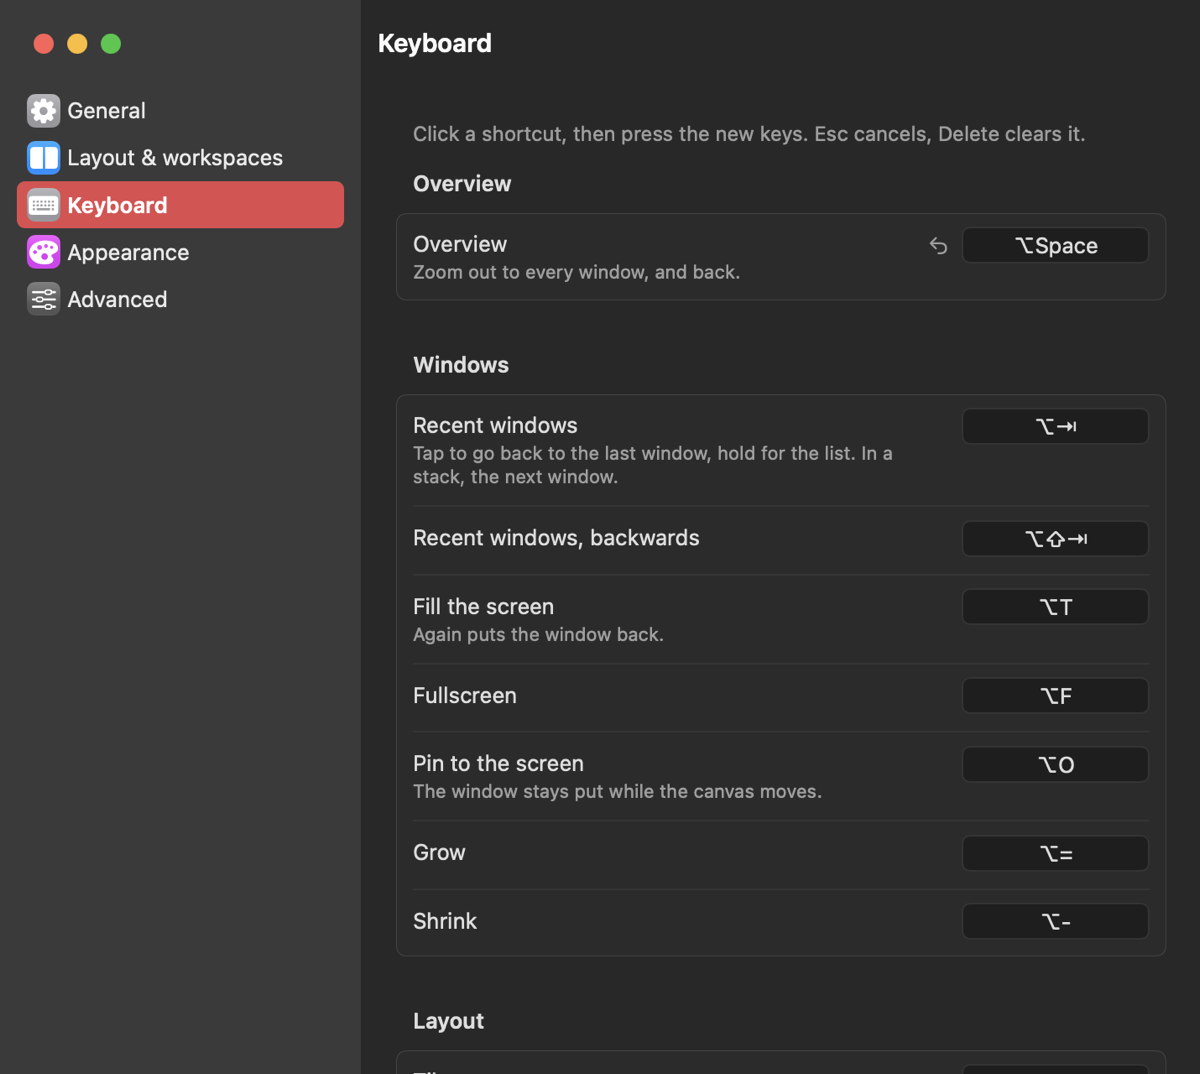
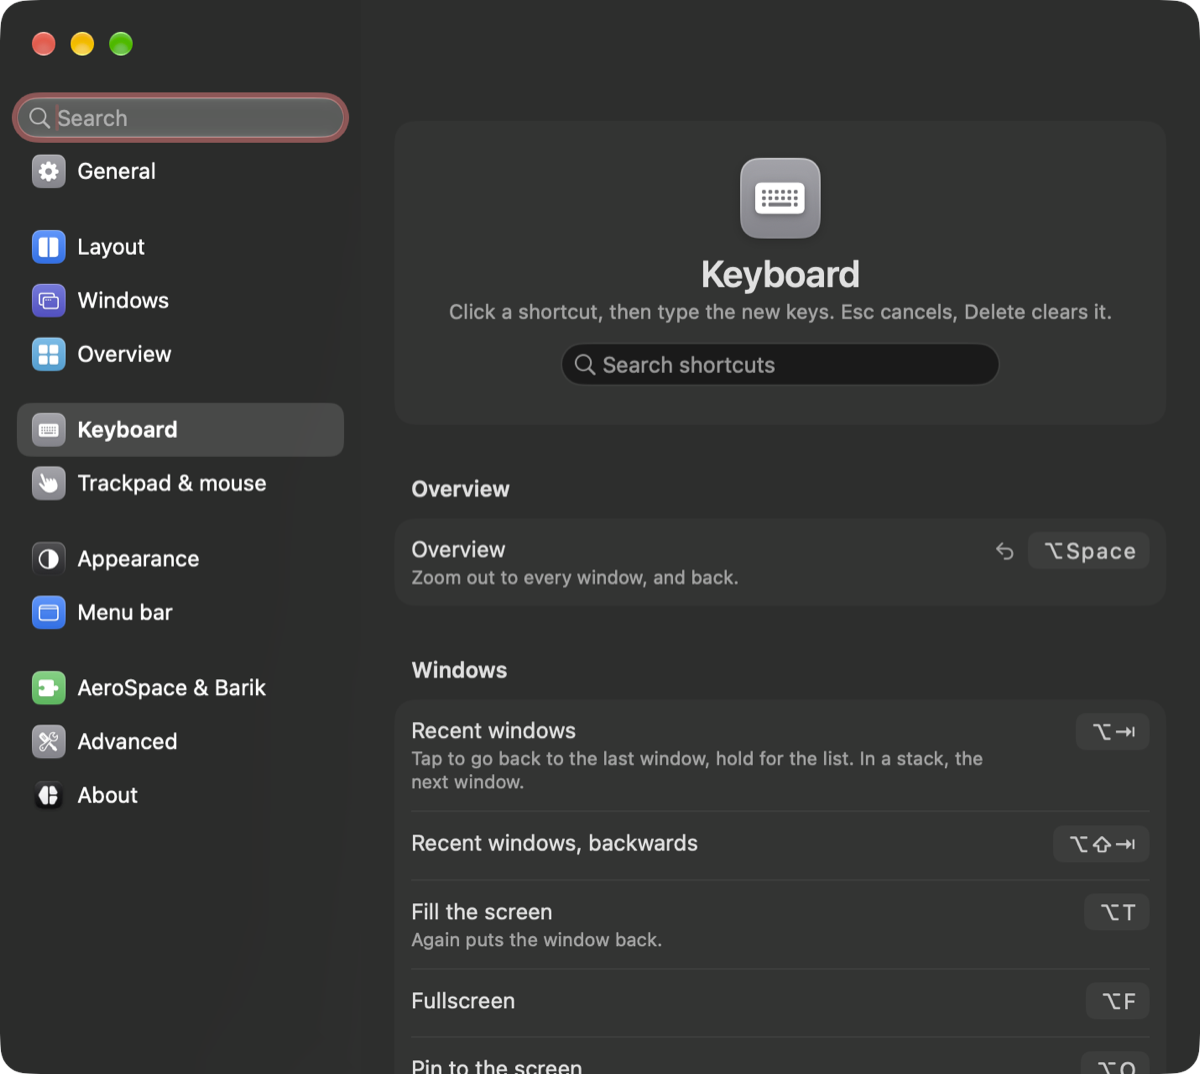
docs: Settings and welcome screenshots in the new design
The docs showed the old Layout & workspaces pane and the old welcome window. These are taken from build/mielwm.app on macOS 26, now with light versions the site swaps in with its theme.

diff --git a/docs/keyboard.md b/docs/keyboard.md
@@ -52,7 +52,7 @@ The `⌃` versions, like `⌃0` and `⌃Z`, work too, and so does `F1` for the k
 
 ## Changing shortcuts
 
-Open Settings > Keyboard. Click a shortcut and press the new keys. `Esc` cancels and `Delete` removes it. The arrow next to a changed row restores its default, and Restore defaults does every row.
+Open Settings > Keyboard. Click a shortcut and press the new keys. `Esc` cancels and `Delete` removes it. The arrow next to a changed row restores its default, and Restore defaults does every row. The search field at the top finds a shortcut by name.
 
 ![The Keyboard pane in Settings](images/settings-keyboard-dark.png)
 
